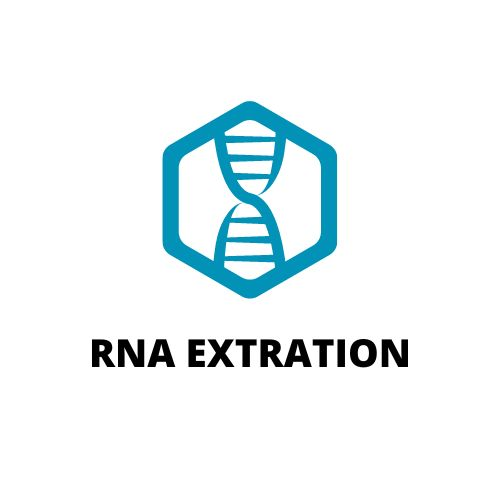
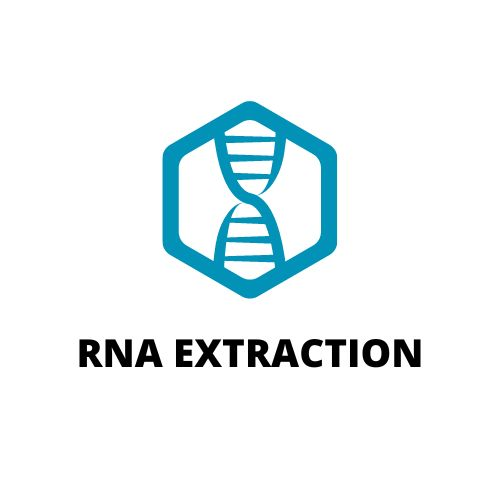
images of protocol section updated

Changed region(s): [[0.15, 0.66, 0.84, 0.75]]

diff --git a/index.html b/index.html
@@ -224,57 +224,57 @@
       <div class="grid-item"><a href="https://dribbble.com">
           <figure class="portfolio-item"><img src="images/portfolio/pcr.jpg"/>
             <figcaption>
-              <h4 class="h5 mb-0">PCR</h4>
+              <h4 class="h5 mb-0">PCR protocol here</h4>
               <!-- <div>Dribbble.com</div> -->
             </figcaption>
           </figure></a></div>
       <div class="grid-item"><a href="https://github.com">
-          <figure class="portfolio-item"><img src="images/portfolio/2-small.png" data-bp="images/portfolio/2.jpg" data-caption="Example of an optional caption."/>
+          <figure class="portfolio-item"><img src="images/portfolio/dna_extraction.jpg" data-caption="Example of an optional caption."/>
             <figcaption> 
-              <h4 class="h5 mb-0">DNA manual extration</h4>
-              <div>GitHub.com</div>
+              <h4 class="h5 mb-0">DNA manual extration protocol here</h4>
+              <!-- <div>GitHub.com</div> -->
             </figcaption>
           </figure></a></div>
       <div class="grid-item"><a href="https://soundcloud.com/">
           <figure class="portfolio-item"><img src="images/portfolio/rna_extraction.jpg" data-caption="Example of an optional caption."/>
             <figcaption> 
-              <h4 class="h5 mb-0">RNA manual extration</h4>
-              <div>Soundcloud.com</div>
+              <h4 class="h5 mb-0">RNA manual extration protocol here</h4>
+              <!--<div>Soundcloud.com</div>-->
             </figcaption>
           </figure></a></div>
       <div class="grid-item"><a href="https://www.adobe.com/">
-          <figure class="portfolio-item"><img src="images/portfolio/4-small.png" data-bp="images/portfolio/4.jpg"/>
+          <figure class="portfolio-item"><img src="images/portfolio/rtpcr.jpg">
             <figcaption>
-              <h4 class="h5 mb-0">RT-PCR</h4>
-              <div>Adobe After Effects</div>
+              <h4 class="h5 mb-0">RT-PCR protocol here</h4>
+              <!--<div>Adobe After Effects</div>-->
             </figcaption>
           </figure></a></div>
       <div class="grid-item"><a href="https://www.adobe.com/">
-          <figure class="portfolio-item"><img src="images/portfolio/5-small.png" data-bp="images/portfolio/5.jpg"/>
+          <figure class="portfolio-item"><img src="images/portfolio/immunolabeling.jpg">
             <figcaption>
-              <h4 class="h5 mb-0">Imunolabelling</h4>
-              <div>Adobe Photoshop</div>
+              <h4 class="h5 mb-0">Imunolabeling protocol here</h4>
+              <!--<div>Adobe Photoshop</div>-->
             </figcaption>
           </figure></a></div>
       <div class="grid-item"><a href="https://www.android.com/">
-          <figure class="portfolio-item"><img src="images/portfolio/6-small.png" data-bp="images/portfolio/6.jpg"/>
+          <figure class="portfolio-item"><img src="images/portfolio/bacterial.jpg" >
             <figcaption>
-              <h4 class="h5 mb-0">bacterial transformation and amplification</h4>
-              <div>Android</div>
+              <h4 class="h5 mb-0">bacterial transformation and amplification protocol here</h4>
+              <!--<div>Android</div>-->
             </figcaption>
           </figure></a></div>
       <div class="grid-item"><a href="https://flutter.dev/">
-          <figure class="portfolio-item"><img src="images/portfolio/7-small.png" data-bp="images/portfolio/7.jpg"/>
+          <figure class="portfolio-item"><img src="images/portfolio/dot_blot.jpg" >
             <figcaption>
-              <h4 class="h5 mb-0">Dot Blot</h4>
-              <div>Flutter</div>
+              <h4 class="h5 mb-0">Dot Blot protocol here</h4>
+              <!--<div>Flutter</div>-->
             </figcaption>
           </figure></a></div>
       <div class="grid-item"><a href="https://flutter.dev/">
-          <figure class="portfolio-item"><img src="images/portfolio/8-small.png" data-bp="images/portfolio/8.jpg"/>
+          <figure class="portfolio-item"><img src="images/portfolio/gel.jpg">
             <figcaption>
-              <h4 class="h5 mb-0">Electrophoresis gel</h4>
-              <div>Flutter</div>
+              <h4 class="h5 mb-0">Electrophoresis gel protocol here</h4>
+              <!--<div>Flutter</div>-->
             </figcaption>
           </figure></a></div>
     </div>
